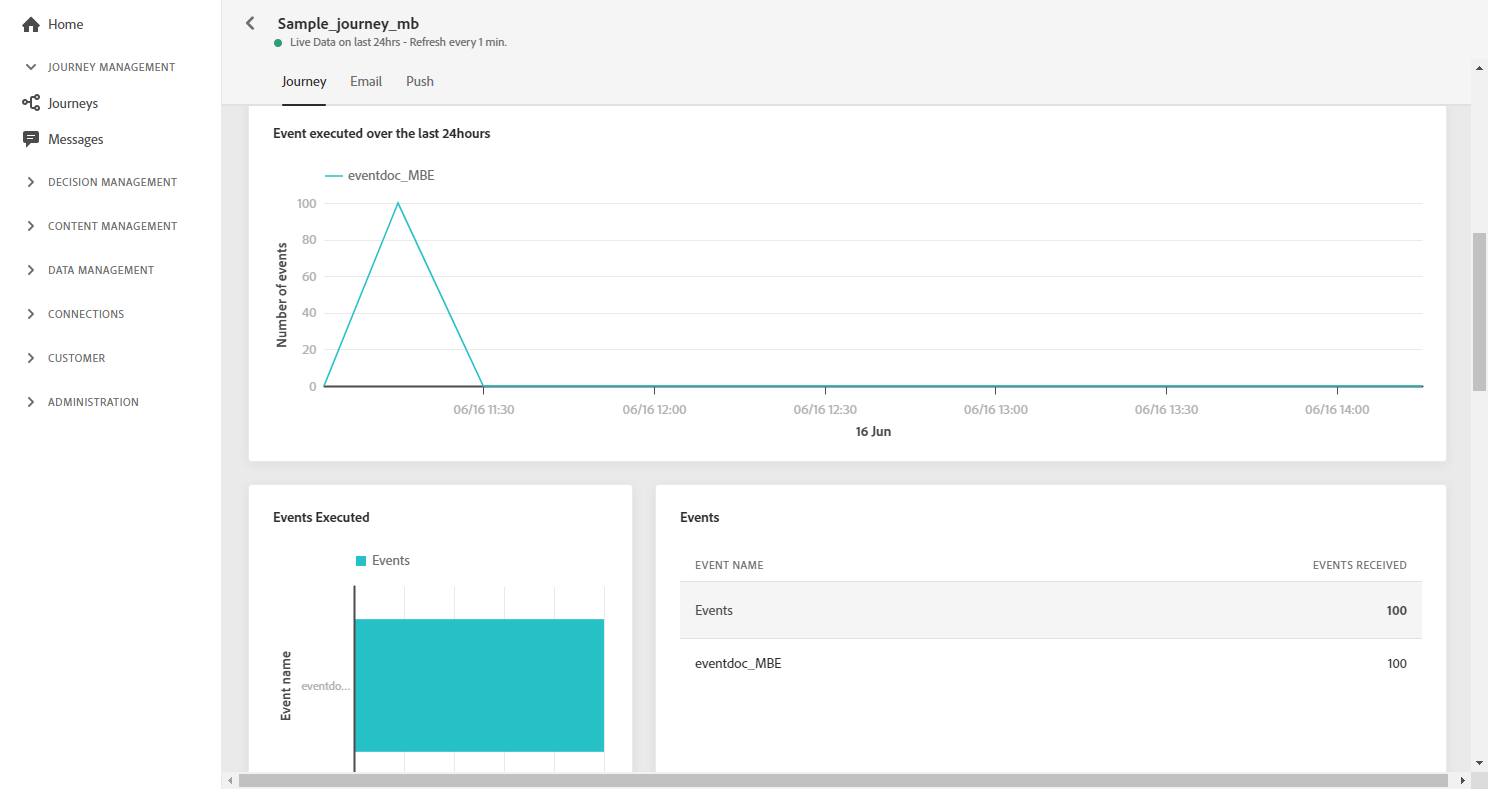
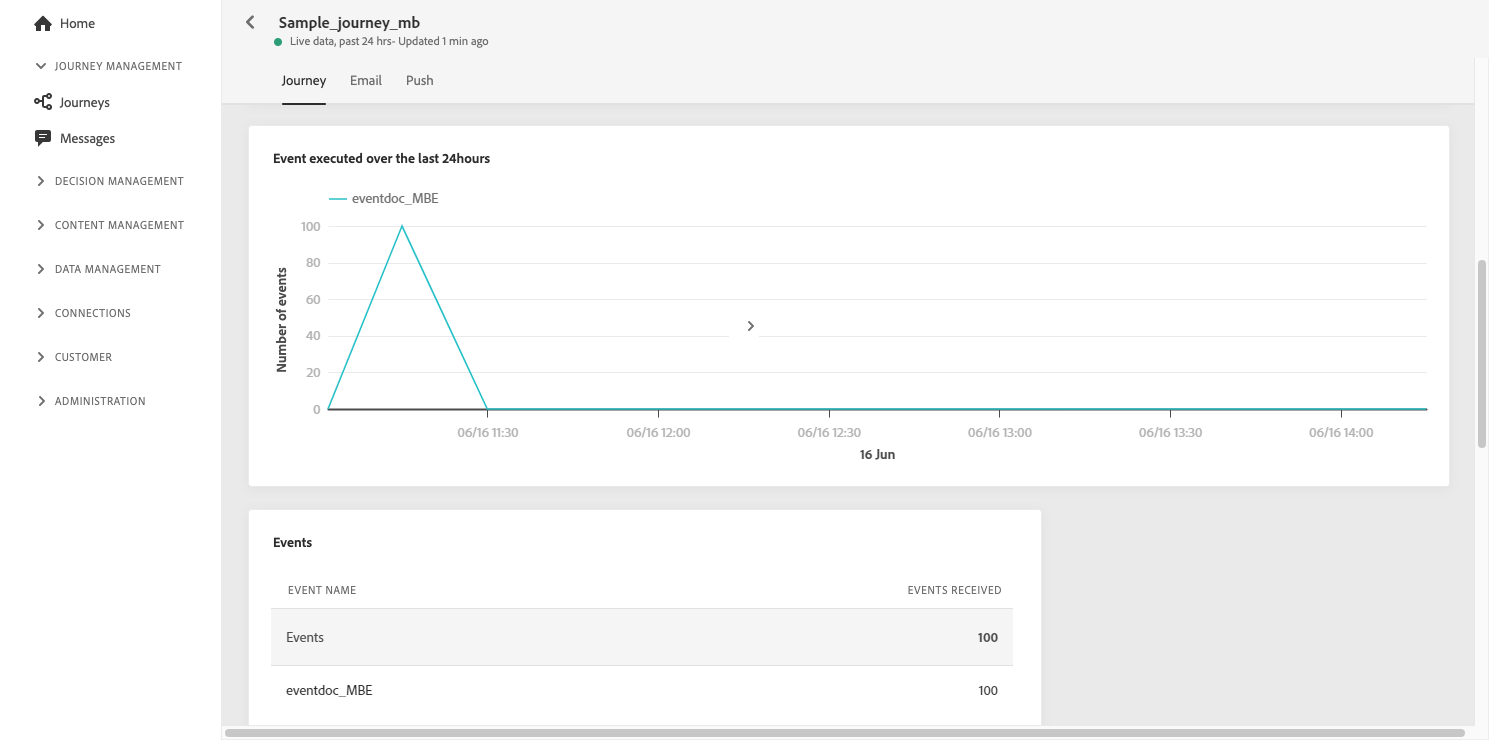
docac-6902 updated screenshots and GUI terms

diff --git a/help/using/reports/journey-live-report.md b/help/using/reports/journey-live-report.md
@@ -35,19 +35,19 @@ The **[!UICONTROL Journey Statistics]** widget displays the following KPIs:
 
 * **[!UICONTROL Exited profiles]**: Total number of individuals who exited the journey.
 
-* **[!UICONTROL Failed individual journey]**: Total number of individual journeys that were not successfully executed.
+* **[!UICONTROL Failed individual journeys]**: Total number of individual journeys that were not successfully executed.
 
 ![](../assets/report_journey_3.png)
 
-The **[!UICONTROL Event executed over the last 24 hours]**, **[!UICONTROL Events executed]** and **[!UICONTROL Events]** widgets allow you to see which one of your events was successfully executed through summary number, graph and table.
+The **[!UICONTROL Event executed over the last 24 hours]** and **[!UICONTROL Events]** widgets allow you to see which one of your events was successfully executed through summary number, graph and table.
 
 ![](../assets/report_journey_4.png)
 
-**[!UICONTROL Action executed over the last 24 hours]** and **[!UICONTROL Actions executed and errors]** widgets represent the most successful action and errors which occurred when your actions were triggered. The Action graph, table and summary numbers contain the data available for actions, such as:
+The **[!UICONTROL Action executed over the last 24 hours]** and **[!UICONTROL Actions executed and errors]** widgets represent the most successful action and errors which occurred when your actions were triggered. The Action graph, table and summary numbers contain the data available for actions, such as:
 
-* **[!UICONTROL Actions successfully executed]**: Total number of actions successfully executed for a journey.
+* **[!UICONTROL Actions executed]**: Total number of actions successfully executed for a journey.
 
-* **[!UICONTROL Error in action]**: Total number of errors that occurred for actions.
+* **[!UICONTROL Error in actions]**: Total number of errors that occurred for actions.
 
 ## Email tab {#email-live}
 
